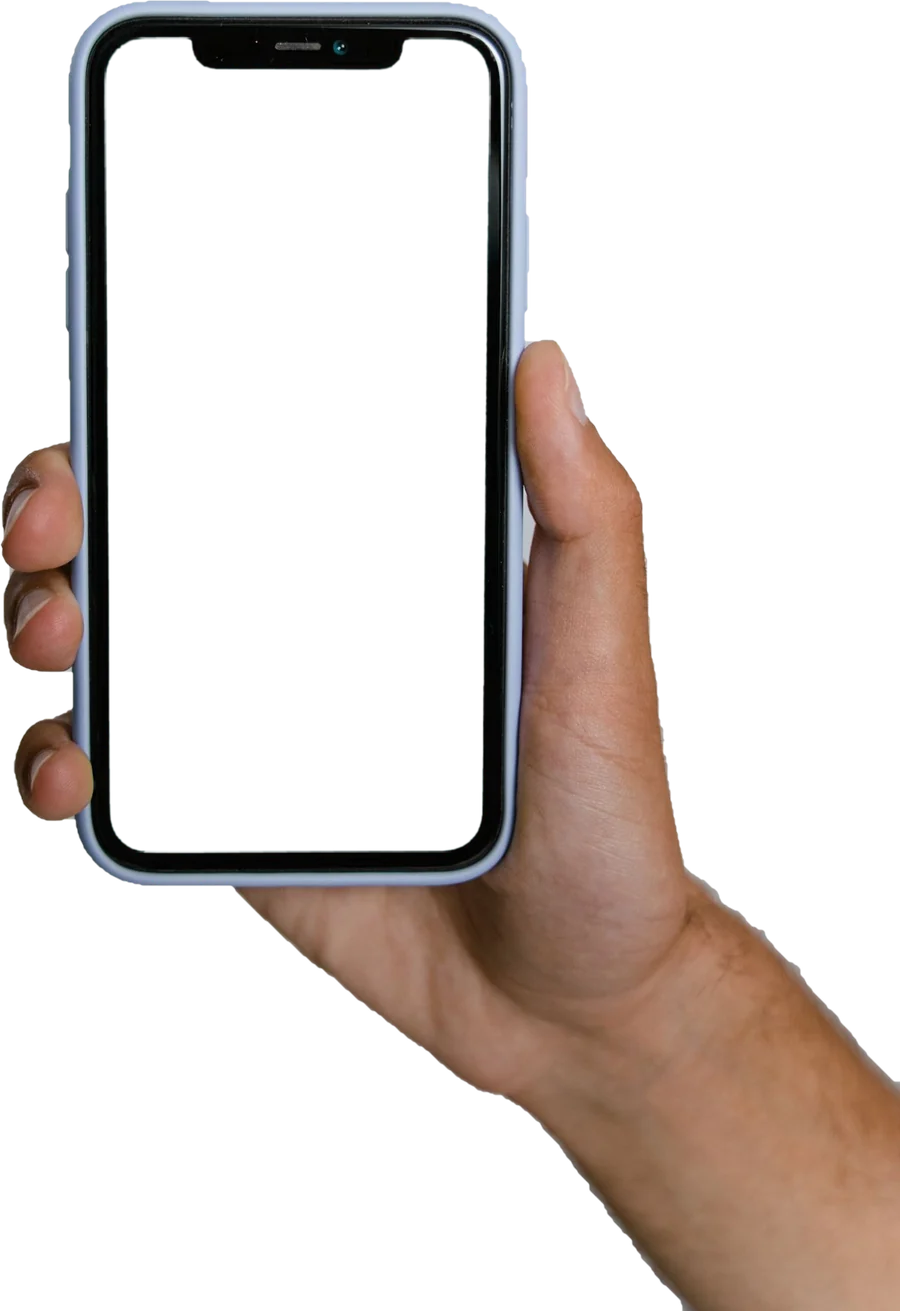
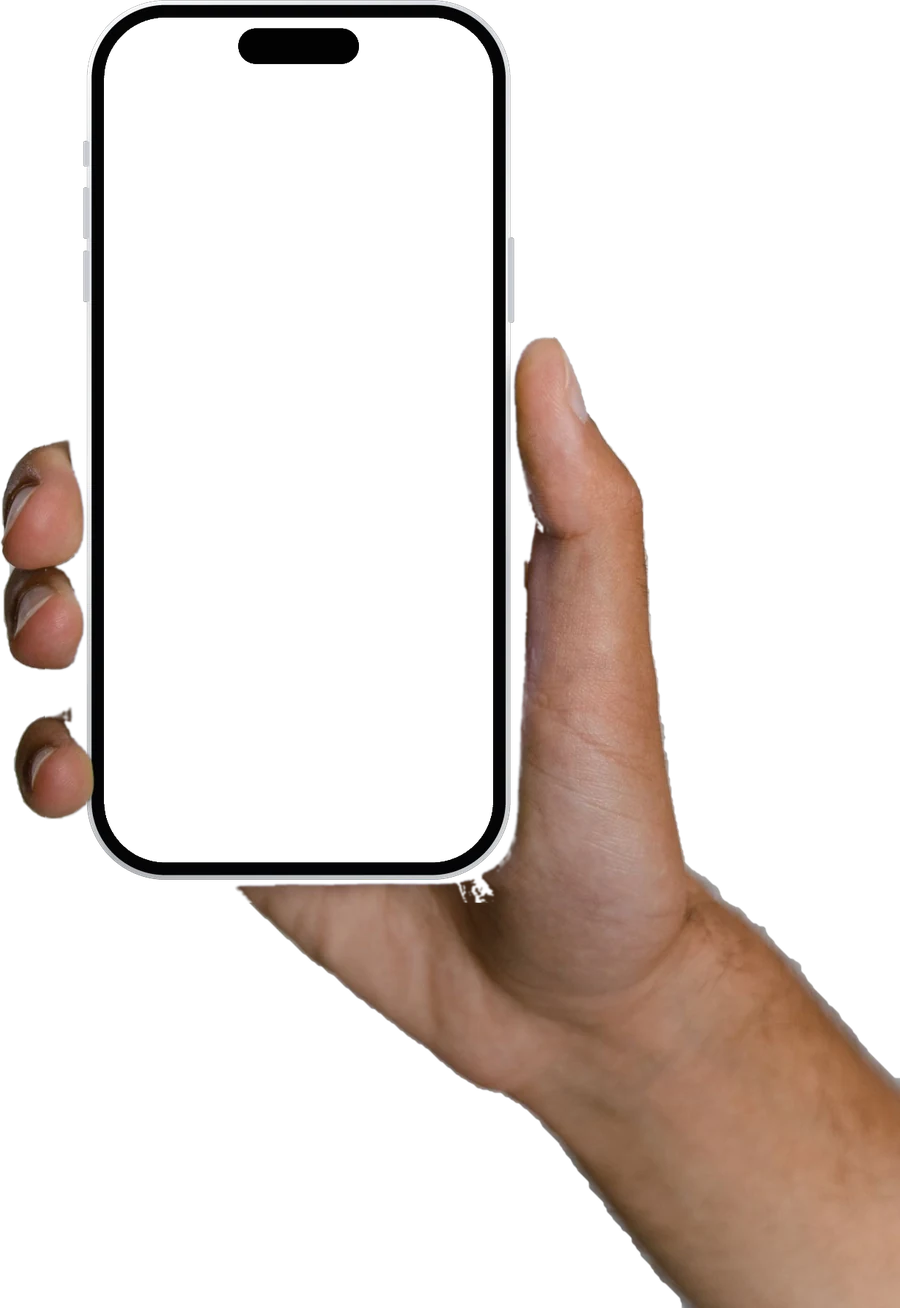
Scan section: the hand holds a current iPhone, like the site's other phones
The phone in the hand photo is redrawn as an iPhone 16 Pro (titanium
frame, thin bezel, Dynamic Island) with the fingers composited back on
top; the screen area and UI size follow the new shape.

Changed region(s): [[0.0622, 0.0, 0.6222, 0.7034]]

diff --git a/styles.css b/styles.css
@@ -638,7 +638,7 @@ a:focus-visible, button:focus-visible, summary:focus-visible { outline: 2px soli
 .sc-scene::after { content: ""; position: absolute; inset: 0; border-radius: inherit; box-shadow: inset 0 0 0 1px rgba(0,0,0,.04); pointer-events: none; }
 
 /* a real hand holding a phone over the page; the photo's screen is see-through */
-.sc-hand { position: absolute; z-index: 2; width: 76%; left: 33%; top: 13%; aspect-ratio: 900 / 1311;
+.sc-hand { position: absolute; z-index: 2; width: 76%; left: 33%; top: 13%; aspect-ratio: 900 / 1308;
   transform-origin: 75% 100%; transform: translate(42%, 62%) rotate(9deg);
   transition: transform 1.4s cubic-bezier(.22,.9,.28,1); }
 .sc-hand.sc-at { transform: rotate(-4deg); }
@@ -647,12 +647,12 @@ a:focus-visible, button:focus-visible, summary:focus-visible { outline: 2px soli
 @keyframes scSway { 0%, 100% { transform: translate(0, 0) rotate(0deg); } 30% { transform: translate(-2px, 2px) rotate(-.5deg); }
   65% { transform: translate(2px, -1px) rotate(.4deg); } }
 .sc-handimg { position: absolute; inset: 0; width: 100%; height: 100%; display: block; filter: sepia(.1) saturate(1.06) brightness(1.02); pointer-events: none; }
-.sc-screen { position: absolute; left: 11.72%; top: 2.93%; width: 42.7%; height: 62.04%; overflow: hidden; background: #000;
-  border-radius: 11.1% / 5.25%; }
+.sc-screen { position: absolute; left: 11.59%; top: 1.35%; width: 43.16%; height: 64.56%; overflow: hidden; background: #000;
+  border-radius: 15.7% / 7.2%; }
 /* a faint reflection on the glass */
 .sc-screen::after { content: ""; position: absolute; inset: 0; z-index: 9; pointer-events: none;
   background: linear-gradient(118deg, rgba(255,255,255,.16) 0%, rgba(255,255,255,0) 34%, rgba(255,255,255,0) 70%, rgba(255,255,255,.06) 100%); }
-.sc-ui { position: absolute; left: 0; top: 0; width: 182px; height: 386px; transform-origin: 0 0; overflow: hidden; }
+.sc-ui { position: absolute; left: 0; top: 0; width: 182px; height: 396px; transform-origin: 0 0; overflow: hidden; }
 
 /* the camera's live view */
 .sc-live { position: absolute; inset: 0; background: #000; }
@@ -661,8 +661,8 @@ a:focus-visible, button:focus-visible, summary:focus-visible { outline: 2px soli
 .sc-quad { fill: rgba(10,132,255,0); stroke: rgba(10,132,255,0); stroke-width: 1.4; vector-effect: non-scaling-stroke; stroke-linejoin: round;
   transition: fill .35s ease, stroke .35s ease; }
 .sc-found .sc-quad { fill: rgba(10,132,255,.26); stroke: #0a84ff; }
-.sc-cam-top { position: absolute; left: 0; right: 0; top: 0; height: 40px; padding: 22px 12px 0; display: flex; justify-content: space-between;
-  background: linear-gradient(rgba(0,0,0,.45), rgba(0,0,0,0)); color: #fff; font: 600 9px/1 var(--sf); }
+.sc-cam-top { position: absolute; left: 0; right: 0; top: 0; height: 44px; padding: 26px 14px 0; display: flex; justify-content: space-between;
+  background: rgba(0,0,0,.62); color: #fff; font: 600 9px/1 var(--sf); }
 .sc-cam-hint { position: absolute; left: 50%; top: 48px; transform: translateX(-50%); white-space: nowrap; padding: 5px 9px; border-radius: 6px;
   background: rgba(0,0,0,.5); color: #fff; font: 600 8.5px/1 var(--sf); transition: opacity .3s; }
 .sc-found .sc-cam-hint { opacity: 0; }

diff --git a/index.html b/index.html
@@ -22,7 +22,7 @@
 <link rel="preconnect" href="https://fonts.googleapis.com">
 <link rel="preconnect" href="https://fonts.gstatic.com" crossorigin>
 <link rel="stylesheet" href="https://fonts.googleapis.com/css2?family=Hanken+Grotesk:wght@400;500;600;700&family=Montserrat:wght@600&display=swap">
-<link rel="stylesheet" href="styles.css?v=44">
+<link rel="stylesheet" href="styles.css?v=45">
 <script type="application/ld+json">
 {"@context":"https://schema.org","@type":"SoftwareApplication","name":"OfficeSwap","operatingSystem":"iOS","applicationCategory":"BusinessApplication","description":"Office owners offer their office on the days they're away, and OfficeSwap assigns it automatically to someone who needs one, first come, first served.","url":"https://officeswap.co/","image":"https://officeswap.co/images/og.jpg?v=2"}
 </script>
@@ -654,6 +654,6 @@
     document.addEventListener("click", function (e) { if (m.open && !m.contains(e.target)) m.removeAttribute("open"); });
   })();
 </script>
-<script src="scan.js?v=3" defer></script>
+<script src="scan.js?v=4" defer></script>
 </body>
 </html>

diff --git a/scan.js b/scan.js
@@ -46,7 +46,7 @@
   // ---------- Build the scene ----------
   // A photo of the printed directory lying on a desk, and a real hand
   // holding a phone over it. The phone photo's screen is see-through; the
-  // app's screens sit underneath at a fixed design size (182 x 386) and
+  // app's screens sit underneath at a fixed design size (182 x 396) and
   // are scaled to fit.
   var scene = el("div", "sc-scene");
   var desk = el("img", "sc-desk");
@@ -102,7 +102,7 @@
   sway.appendChild(screen);
   var hand = el("img", "sc-handimg");
   hand.src = IMG + "hand-phone.webp"; hand.alt = ""; hand.decoding = "async"; hand.loading = "lazy";
-  hand.width = 900; hand.height = 1311;
+  hand.width = 900; hand.height = 1308;
   sway.appendChild(hand);
   phone.appendChild(sway);
   scene.appendChild(phone);
